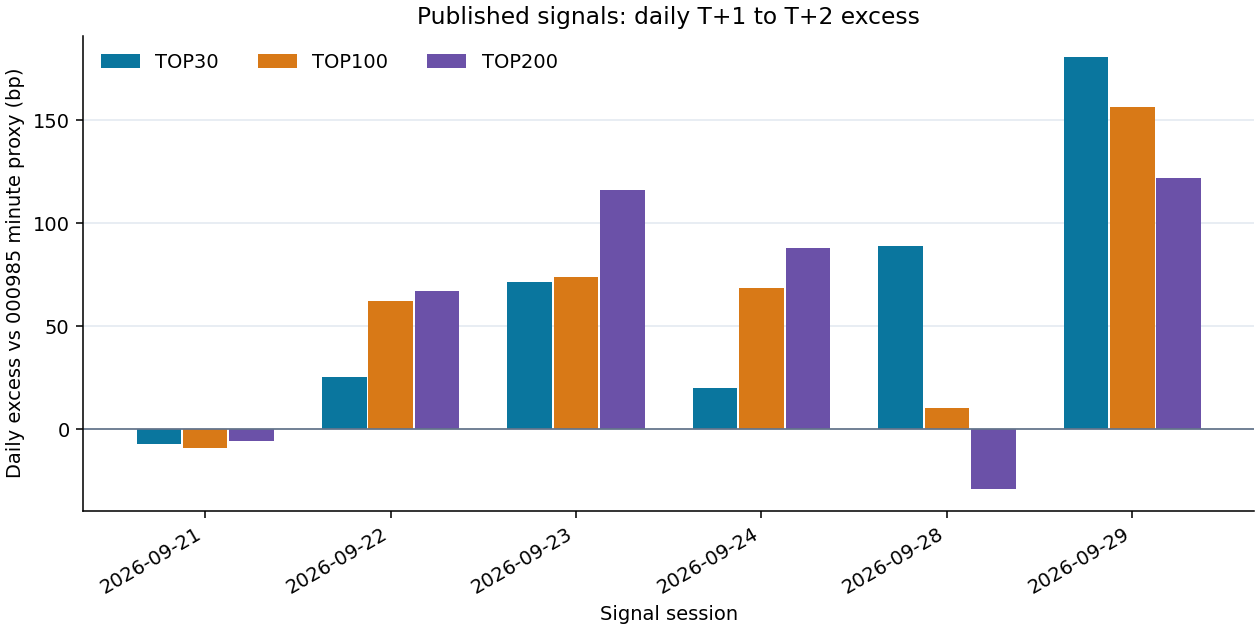
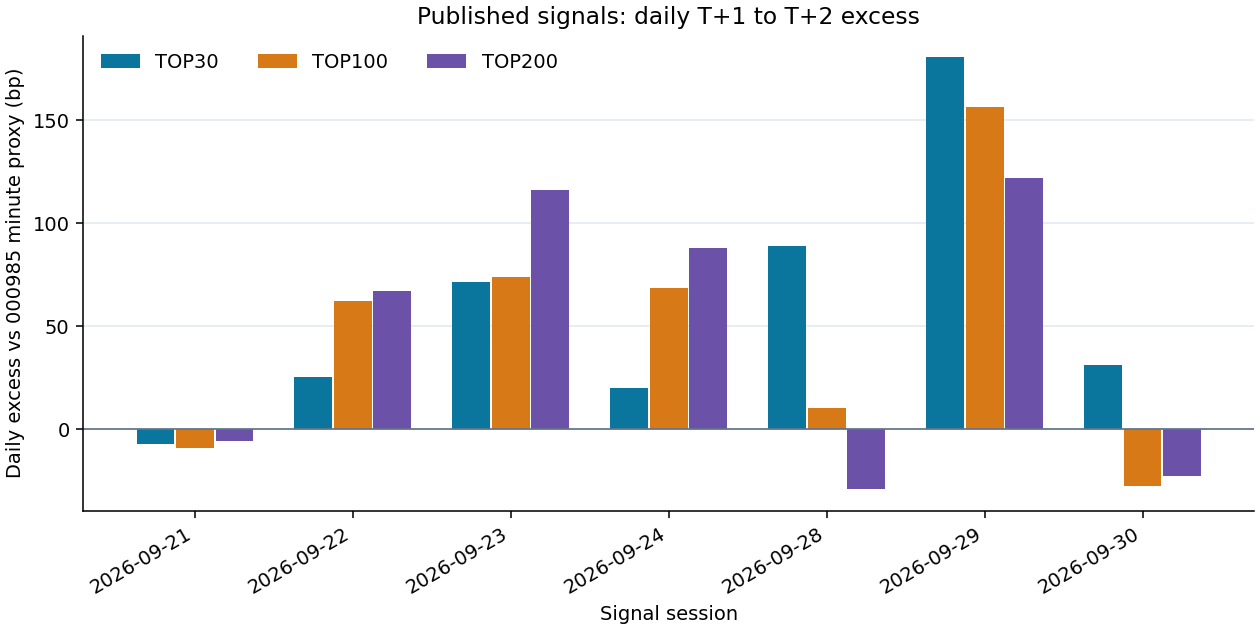
Update published signal performance through 2026-10-09

diff --git a/README.md b/README.md
@@ -17,13 +17,13 @@ CSV 编码为 UTF-8 BOM，按 `signal` 降序排列。
 <!-- PUBLIC_PERFORMANCE_START -->
 ## 已发布信号的历史表现
 
-仅统计本仓库 `signals/YYYY-MM-DD.csv` 已上传且买卖两日行情均完整的信号；截至 **2026-10-08**，共有 **6** 个已完成信号日，另有 **2** 个待结算或数据未齐。样本很短，暂无统计显著性结论。
+仅统计本仓库 `signals/YYYY-MM-DD.csv` 已上传且买卖两日行情均完整的信号；截至 **2026-10-09**，共有 **7** 个已完成信号日，另有 **1** 个待结算或数据未齐。样本很短，暂无统计显著性结论。
 
 | 组合 | 已完成信号日 | 组合累计收益 | 000985同期收益 | 累计超额 |
 |---|---:|---:|---:|---:|
-| TOP30 | 6 | -1.97% | -5.63% | +3.88% |
-| TOP100 | 6 | -2.12% | -5.63% | +3.72% |
-| TOP200 | 6 | -2.15% | -5.63% | +3.68% |
+| TOP30 | 7 | -3.56% | -7.46% | +4.21% |
+| TOP100 | 7 | -4.28% | -7.46% | +3.43% |
+| TOP200 | 7 | -4.27% | -7.46% | +3.44% |
 
 ![TOP30、TOP100、TOP200 累计超额净值](performance/excess_nav.png)
 
@@ -39,6 +39,7 @@ CSV 编码为 UTF-8 BOM，按 `signal` 降序排列。
 | 2026-09-24 | 2026-09-29 | +20.15 | +68.78 | +87.89 |
 | 2026-09-28 | 2026-09-30 | +88.88 | +10.33 | -29.04 |
 | 2026-09-29 | 2026-10-08 | +180.63 | +156.52 | +121.89 |
+| 2026-09-30 | 2026-10-09 | +31.18 | -27.33 | -22.80 |
 
 ![TOP30、TOP100、TOP200 逐日超额](performance/daily_excess.png)
 
